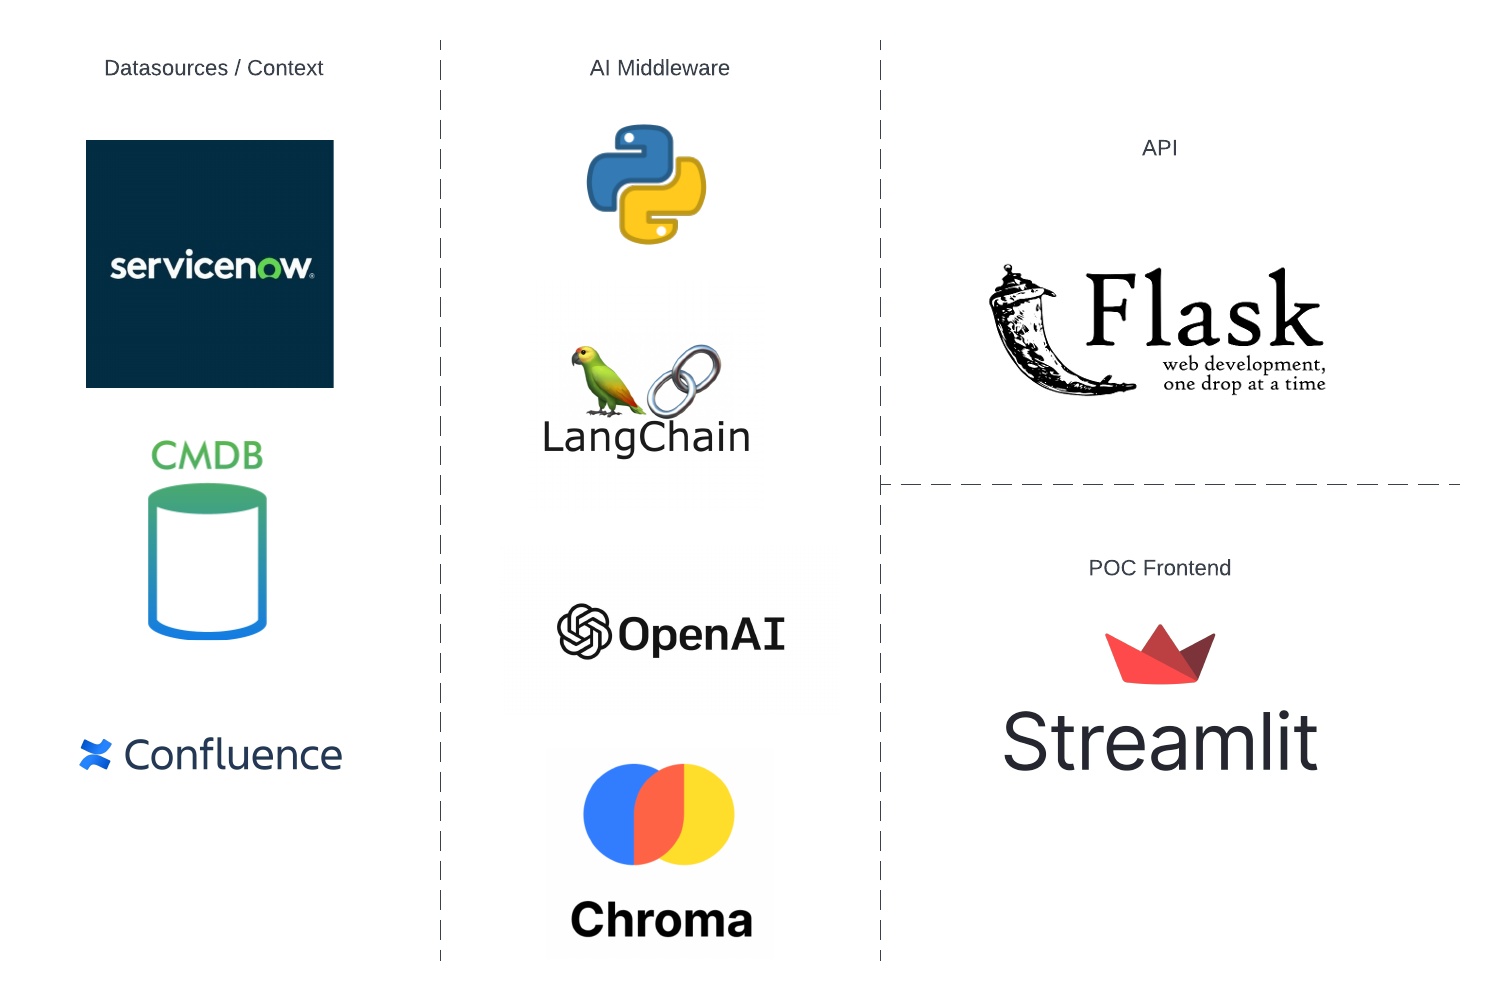
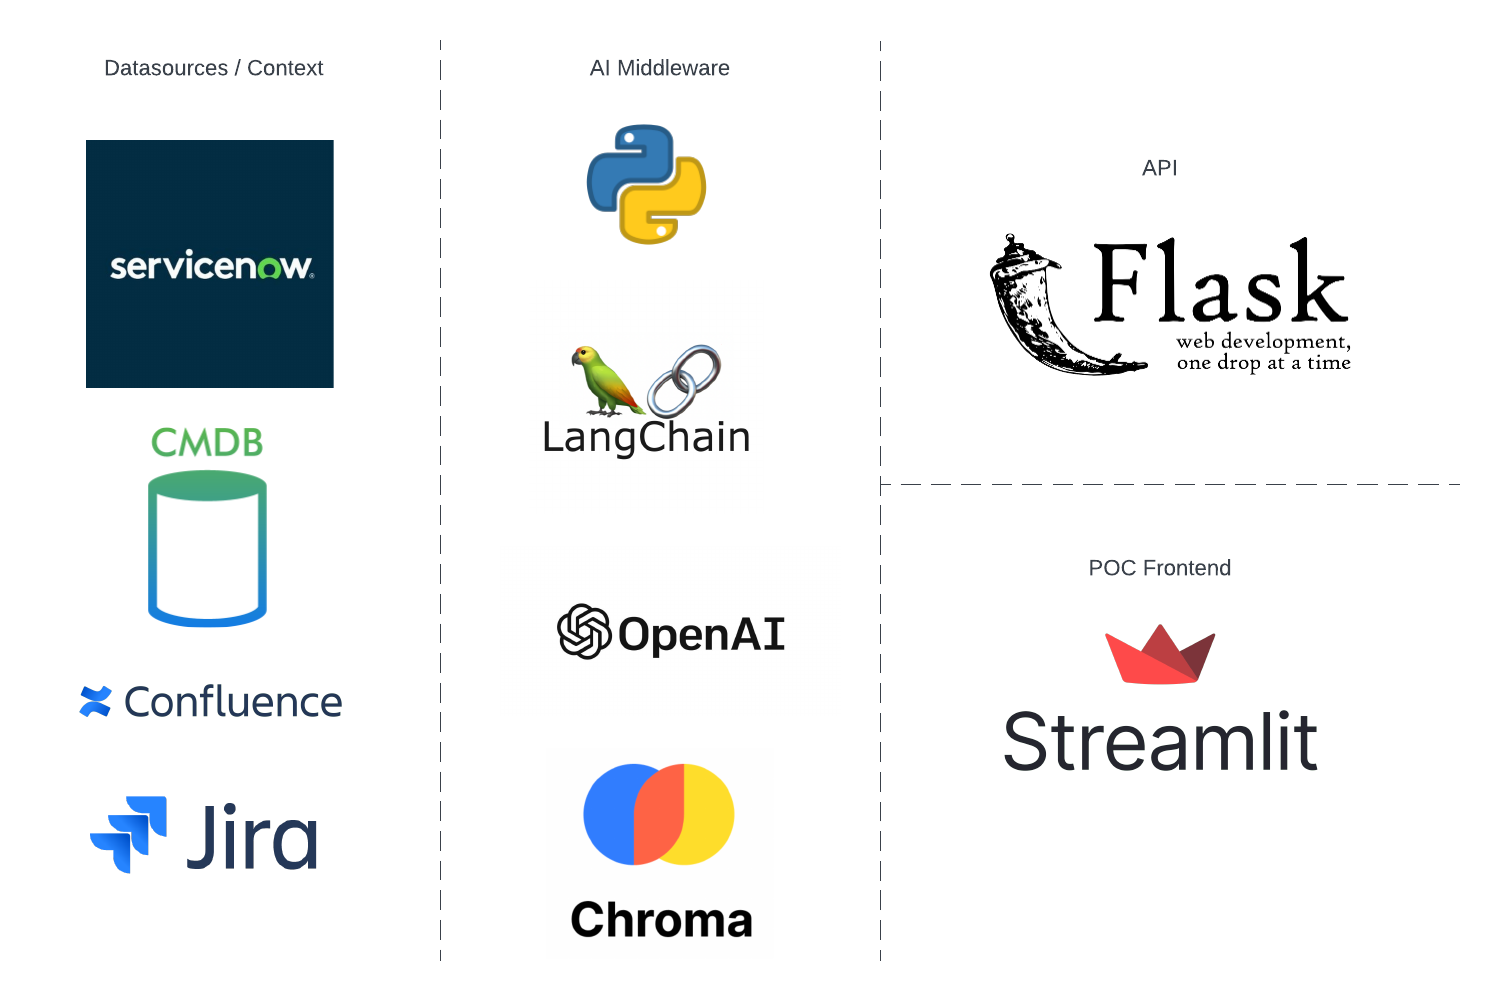
snow kb tables & diagram add jira

diff --git a/utils/Utils.py b/utils/Utils.py
@@ -49,14 +49,14 @@ def provision():
 
 
 def provision_snow(llm):
-    client = pysnc.ServiceNowClient('https://cgigroupincdemo15.service-now.com', ('api_user', os.getenv('snow_pass')))
+    client = pysnc.ServiceNowClient(os.getenv('snow_url'), ('api_user', os.getenv('snow_pass')))
     table_list = ['task', 'incident', 'sys_user', 'sys_user_group', 'core_company', 'cmn_location', 'cmn_cost_center',
-                  'cmn_department',
-                  'problem', 'kb_knowledge', 'change_request', 'change_task', 'std_change_producer_version',
+                  'cmn_department', 'problem', 'wf_workflow', 'kb_knowledge_base', 'kb_category', 'kb_knowledge',
+                  'kb_feedback', 'change_request', 'change_task', 'std_change_producer_version',
                   'cmdb', 'cmdb_ci', 'cmdb_rel_ci', 'cmdb_ci_computer', 'cmdb_ci_database', 'cmdb_ci_service',
                   'cmdb_ci_storage_device', 'cmdb_class_info', 'alm_asset', 'cmdb_model']
     # 'incident_task',
-    # 'change_request_template','change_collision',
+    # 'change_request_template', 'change_collision',
     # cmdb_ci_network_host,
     # cmdb_ci_cloud_service_account
     # cmdb_ci_network_adapter
